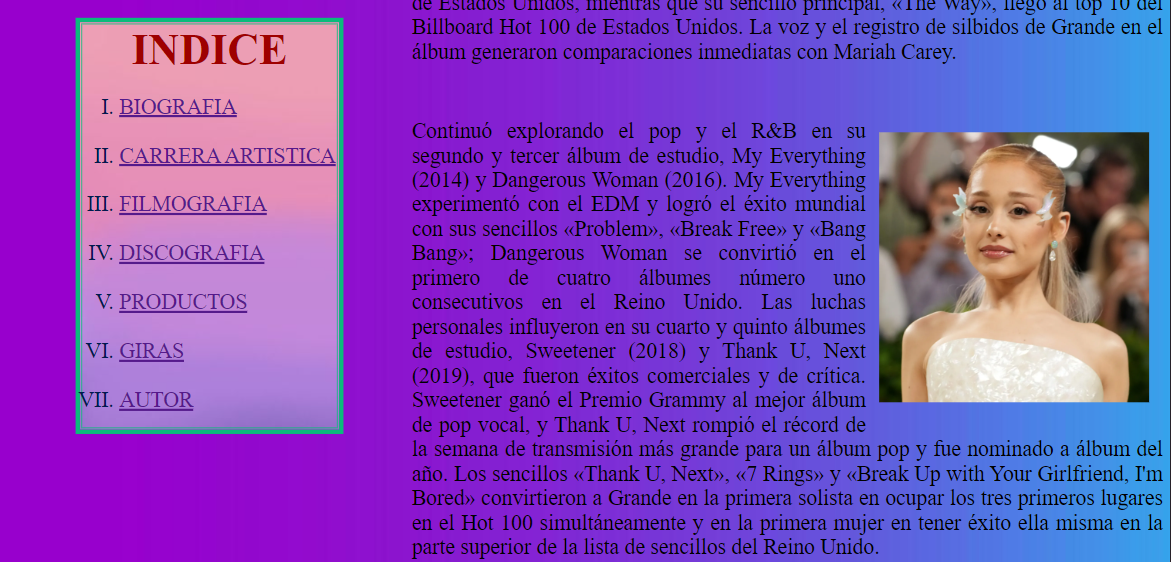
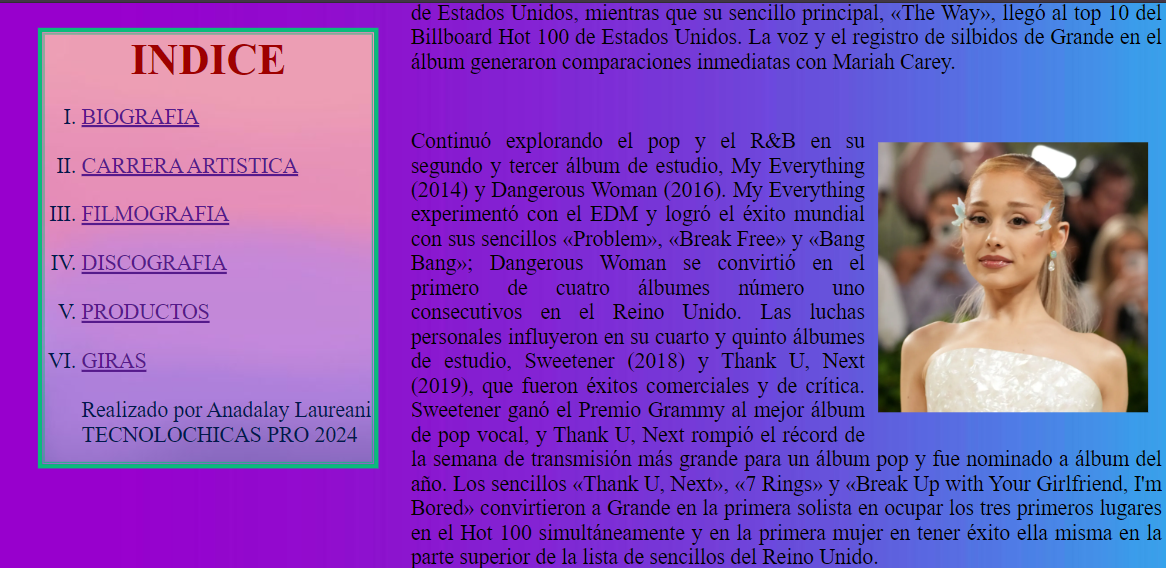
Agregue Autor

diff --git a/index.html b/index.html
@@ -46,7 +46,8 @@ color: #6A2A10;
 					<LI><A HREF="https://www.youtube.com/user/osnapitzari">DISCOGRAFIA</A HREF><br><BR>
 					<LI><A HREF="https://shop.arianagrande.com/">PRODUCTOS</A HREF><br><BR>
 					<LI><A HREF="https://es.wikipedia.org/wiki/Ariana_Grande#Giras">GIRAS</A HREF><br><BR>
-					<LI><A HREF="Autora.HTML">AUTOR</A HREF>
+					Realizado por Anadalay Laureani<br>
+					TECNOLOCHICAS PRO 2024
 				</OL>
 				</td>
 			</tr>

diff --git a/README.md b/README.md
@@ -1,4 +1,4 @@
-# Portafolio de habilidades TECHNOLOCHICAS PRO
+# Primera página TECHNOLOCHICAS PRO
 
 El presente proyecto es una página web sobr Ariana Grande desarrollada para poner en práctica las habilidades obtenidad dentro del bootcamp de desarrollo frontend de Technolochicas PRO.
 
